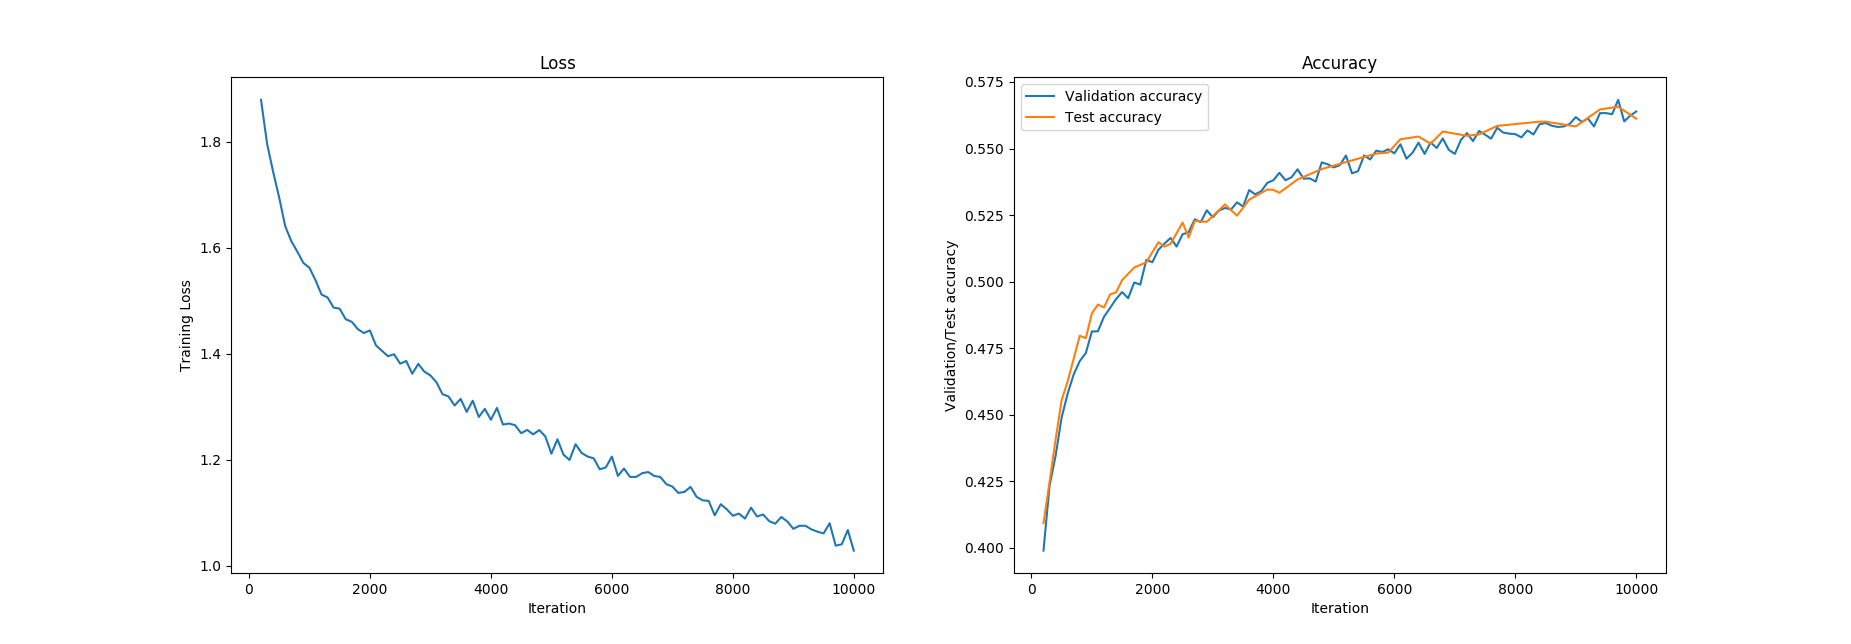
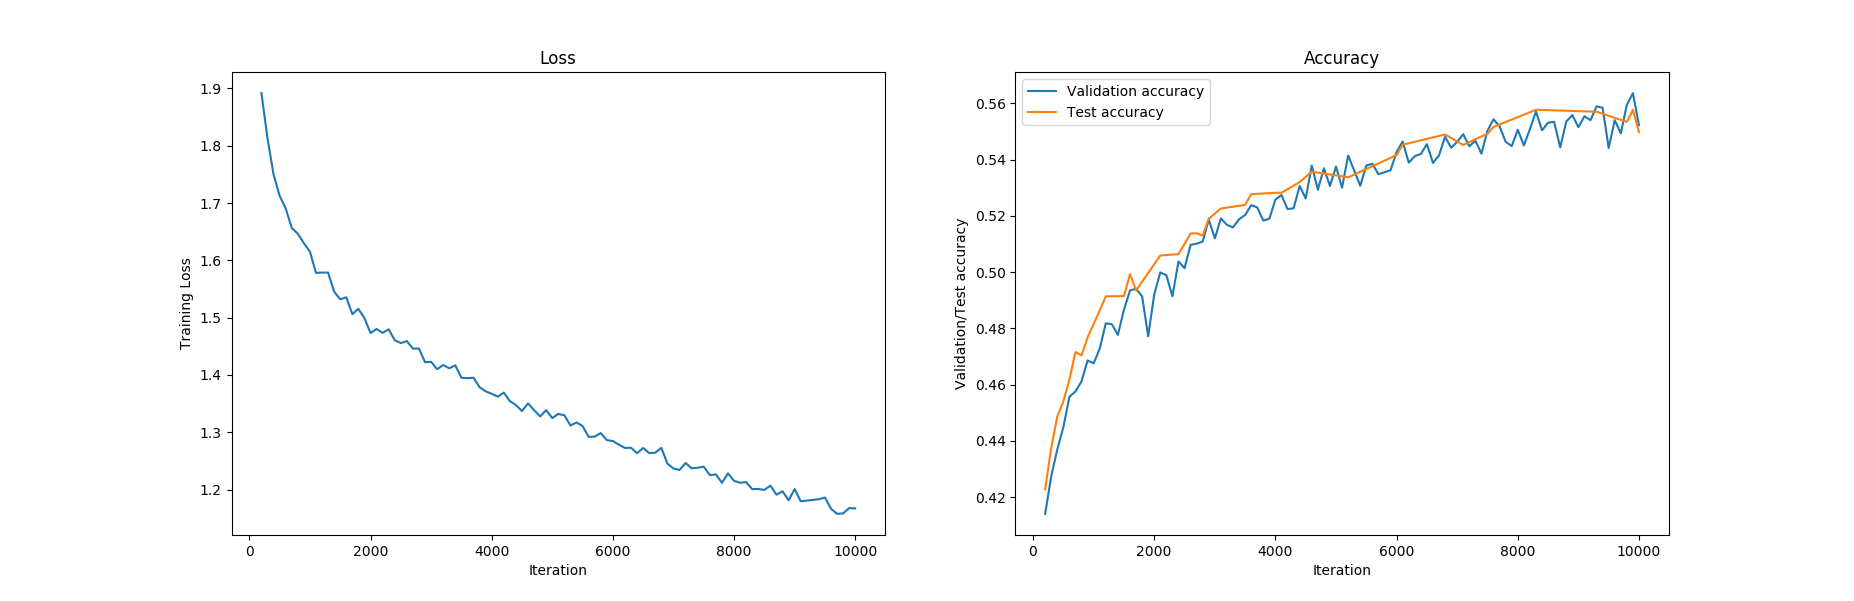
fixed a bug in relu.backward()

diff --git a/model/Layers.py b/model/Layers.py
@@ -177,7 +177,7 @@ class ReLU(object):
 
     def backward(self, grad):
         tmp = np.where(self.input > 0, self.input, 0.0)
-        activation_derivative = np.where(tmp <= 0, self.input, 1.0)
+        activation_derivative = np.where(tmp <= 0, tmp, 1.0)
         return grad * activation_derivative
 
 
@@ -213,8 +213,8 @@ class BatchNorm1d(object):
         self.beta = np.zeros(shape=[1, n_in])
 
     def forward(self, input):
-        self.batch_size = input.shape[0]
         self.input = input
+        self.batch_size = self.input.shape[0]
         self.mu = np.mean(self.input, axis=0)
         self.var = np.var(self.input, axis=0)
         self.normalized = (self.input - self.mu) / np.sqrt(self.var + 1e-8)

diff --git a/main_mnist.py b/main_mnist.py
@@ -1,7 +1,7 @@
 from model import Layers, load_data, network
 
 # hyper-parameters
-learning_rate = 0.1
+learning_rate = 0.2
 num_iter = 10000
 batch_size = 128
 lr_decay = [0.2, 6000]

diff --git a/main_cifar10.py b/main_cifar10.py
@@ -1,7 +1,7 @@
 from model import Layers, load_data, network
 
 # hyper-parameters
-learning_rate = 0.01
+learning_rate = 0.03
 num_iter = 10000
 batch_size = 128
 lr_decay = None
